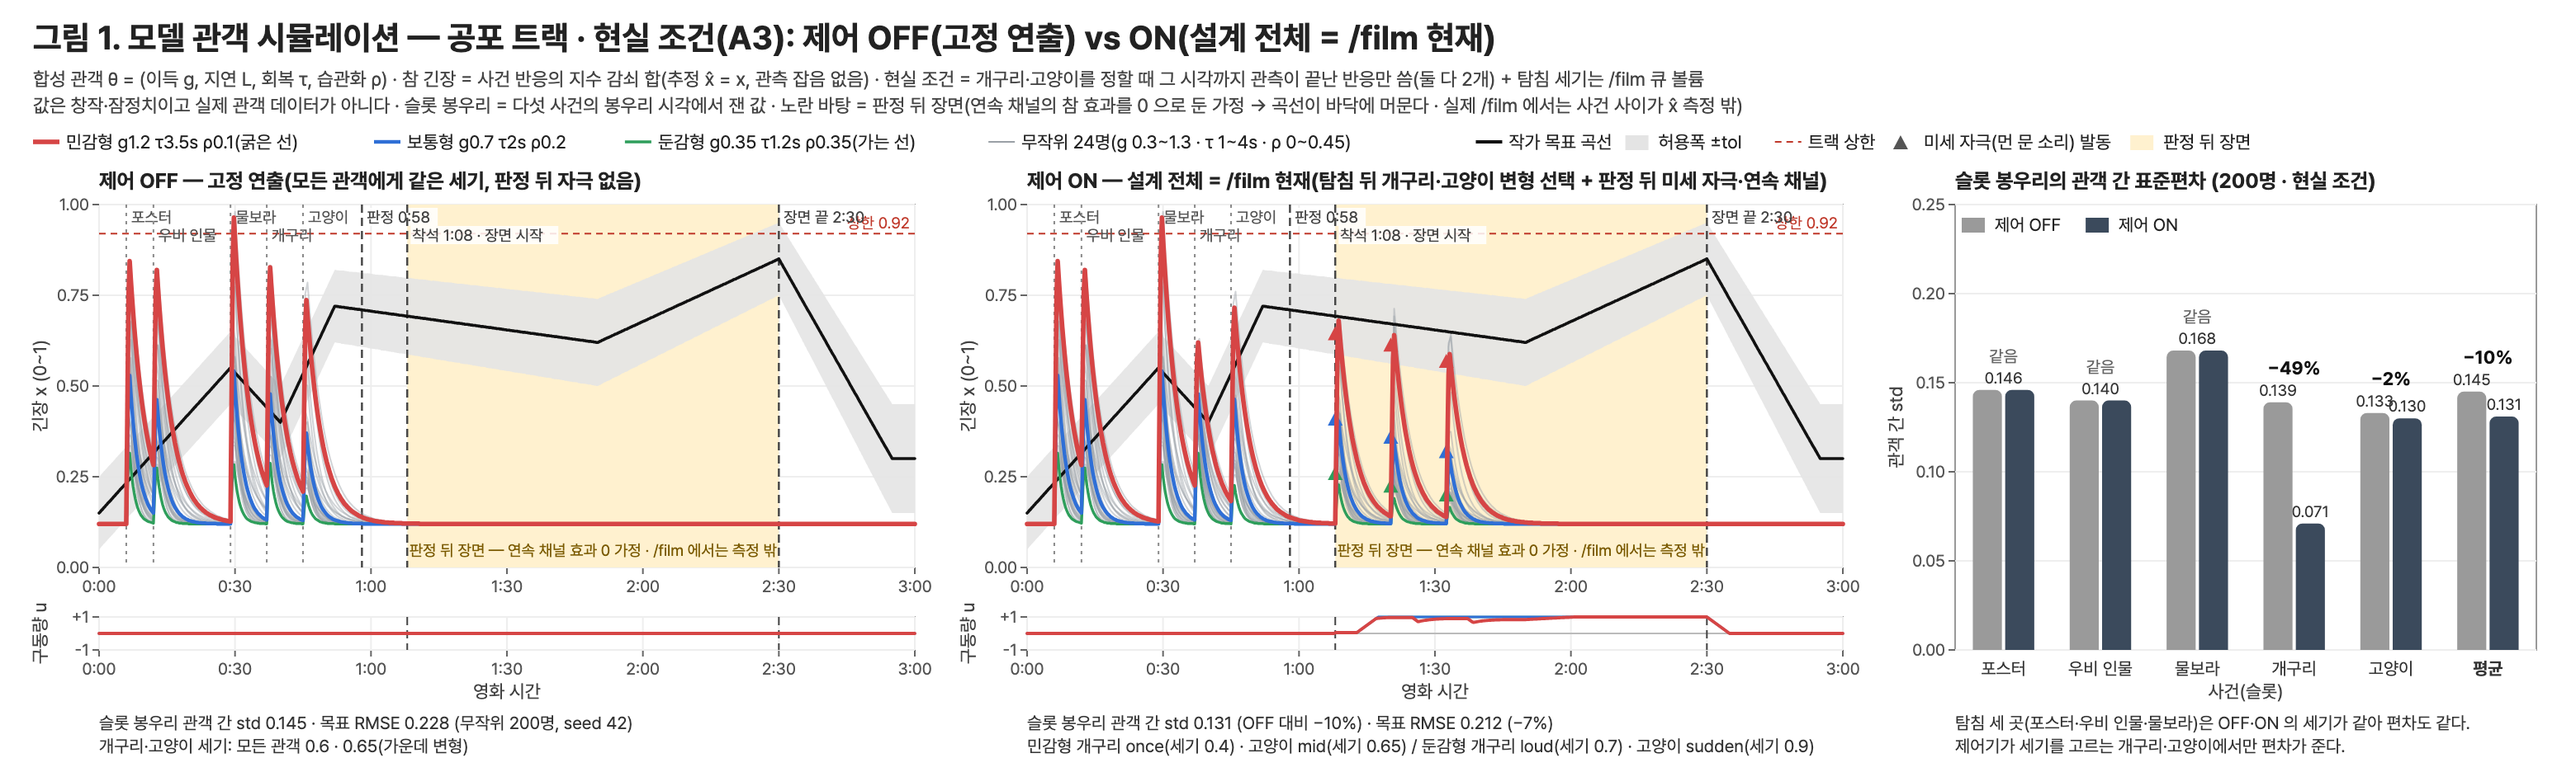
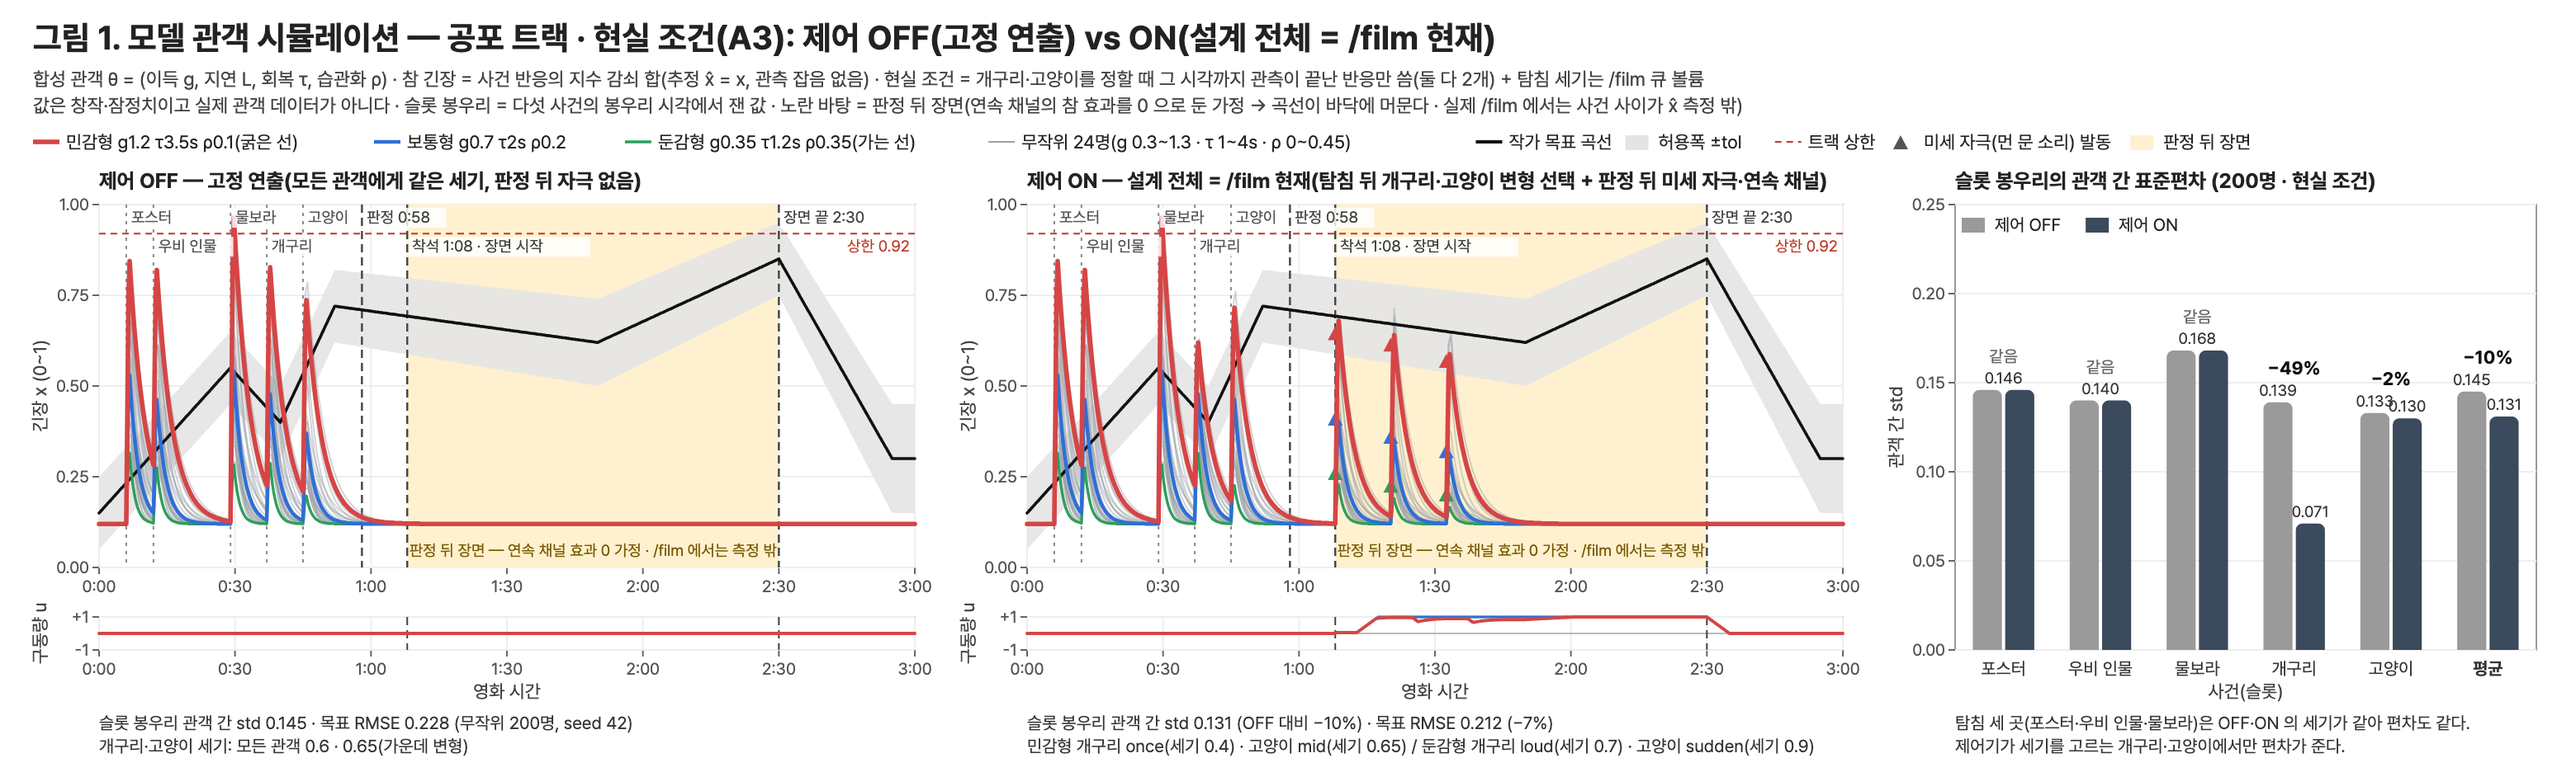
기술 요약 그림 1 의 이름표를 상한 점선 위·아래 두 줄로 나누고 상한 라벨을 점선 아래 오른쪽 끝으로 옮긴다 — 왼쪽·가운데 칸 오른쪽 위에서 "장면 끝 2:30" 과 빨간 "상한 0.92" 가 겹쳐 찍히고, 둘째 줄 이름표 "우비 인물"·"개구리" 가 상한 점선(y 0.92) 위에 놓여 취소선처럼 보이던 문제(B206 · 생성 스크립트는 증거물 폴더 b23b/fig1.mjs · 수치 fig1-values.txt 는 그대로 · 이름표는 곡선 위에 halo 로 · PDF 1쪽·저장소 사본 cmp SAME). 인수인계 문서는 §10

diff --git a/Bus/규격/개발_이어가기.md b/Bus/규격/개발_이어가기.md
@@ -297,6 +297,10 @@ npx --yes vercel deploy --prod --token="$TOK" --yes
 - `scripts/sim-interim.mjs` — 페이지와 같은 시각(`T.judge`)에서 끊는다(예전엔 +6초를 더 돌려 위 결함을 가렸다).
 - `app/interim/page.js` — 팀 판정 옆에 관측 축 배선: `createEngagementSensor` 생성, 큐마다 `beginStimulus(probeFor(cue.name))`, 200ms 틱에서 `fitViewerModel`·`estimateTensionSeries`, `?monitor=1` 디렉터 모니터, 종료 카드 반응 지문, `?viewer=`·`?seed=` 합성 관객, `?kiosk=1`, 세션에 `engagement`·`control` 저장. 팀의 `if (cue.sense)` 분기·`judge()`·드리프트 호출은 그대로.
 - `app/film/page.js` · `components/ReactiveStage.jsx`(`adjustRef` 오프셋) · `lib/filmTimeline.js` · `components/Bus.jsx`(문 개구부 텍스처) · `app/api/session/route.js`(목록에 route·viewer·speed) · `app/film/compare/page.js`(두 라우트 세션 비교).
+- `app/film/film.module.css` — 모니터·HUD·종료 카드의 `word-break: keep-all` 과 질문·응답 줄 두 칸 배치, 합성 관객 배지 `.synthBadge`(B65·B110·B163). 팀 규칙은 지우지 않고 뒤에 덧붙였다.
+- `lib/dialogueBeats.js` — +73줄: 자막 유지 창 `subtitleHoldSec`·`splitLead`·`nextPlayedBeat`, 대사를 밟지 않는 미세 자극 허용 창 `dialogueQuiet`·`quietState`(B118·B138). 팀의 `DIALOGUE_V2_BEATS`·`beatOf`·`gazeFor` 는 그대로.
+- `scripts/test-direction.mjs` — +79줄: 팀 테스트 파일에 위 함수들의 단언(B91·B118)을 같은 `test()` 틀로 덧붙였다. 팀 단언은 그대로.
+- `scripts/test-interim.mjs` — +45줄: S1 관찰 창이 판정 2초 전에 닫히고 배속 1·4·6 에서 판정 시각에 S1 채점이 이미 나와 있는지(B59). 팀 단언은 그대로.
 
 **두 라우트가 공유하는 것** — 이 파일을 고치면 두 화면이 같이 바뀐다: `engagementSense.js` · `viewerModel.js` · `tensionEstimate.js` · `viewerText.js` · `gazeSim.js` · `sessionCompare.js` · `DirectorMonitor.jsx`. 판정은 독립, 관측 축은 공유.
 
@@ -408,7 +412,7 @@ http://localhost:3021/film/compare?a=<A 세션 id>&b=<B 세션 id>&kiosk=1
 | B139 | 버스 도착 캡션 "272" → "[272번 버스가 들어오는 소리]" |
 | B144 | "가장 크게 반응한 순간(x̂ 최고)" 과 "가장 차분히 집중한 순간(집중도 최고 2초)" 을 두 줄로 분리 |
 | B147 | 반응 3건 미만이면 성향을 단정하지 않음 · 같은 반복 횟수 응답만이면 이득만 갱신(`levels`) |
-| B149 | 판정 뒤 장면 x̂ 가 허용폭 아래(0/39) — 연속 조정은 측정 밖 구간의 개루프 보정. 문서에 정직하게 적음(미해결) |
+| B149 | 판정 뒤 장면 x̂ 가 허용폭 아래(0/40 · 수치표 E1) — 연속 조정은 측정 밖 구간의 개루프 보정. 문서에 정직하게 적음(미해결) |
 | B150 | x̂ 시계열은 창 안 최댓값(`tPeak`) — 2초 표본 사이의 장면 봉우리가 안 잡히던 문제 |
 | B151 | 비교 화면 x̂ 도 사건 사이 구간을 흐린 선으로(측정 밖 표시) |
 | B152 | 합성 공포형 사건 봉우리가 x̂ 1.0 에 포화(`responseMagnitude` 각속도 항) — 결정 대기 |
